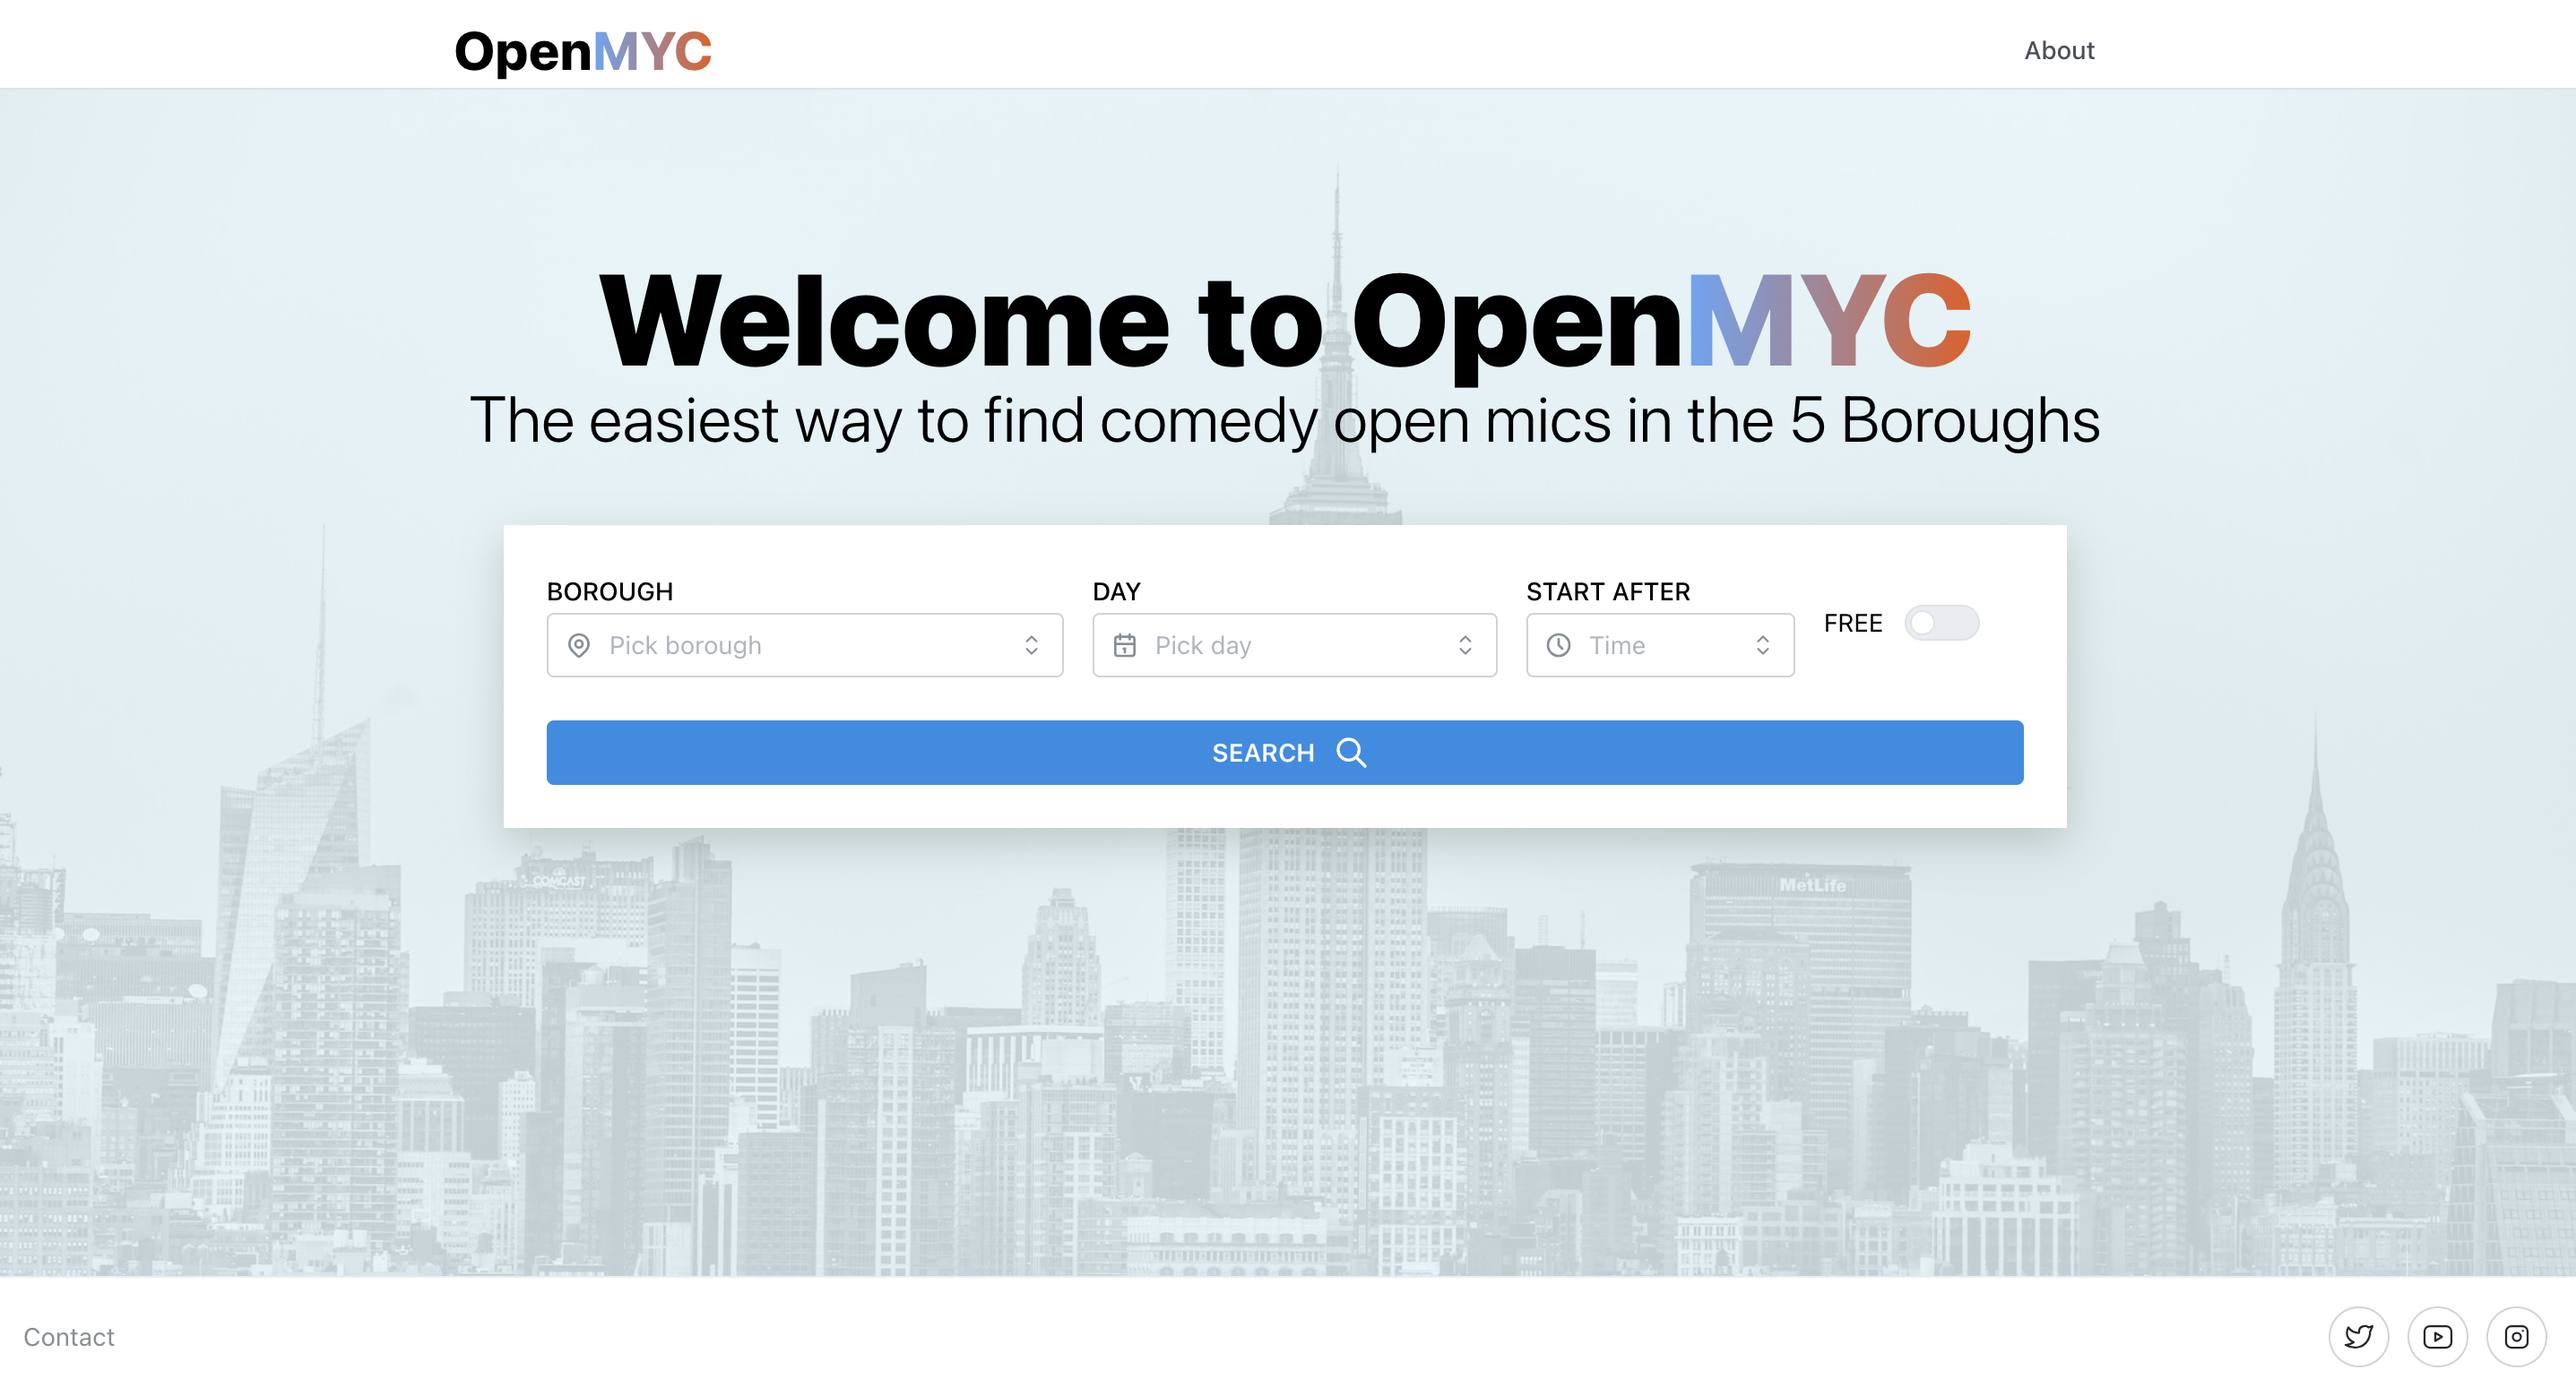
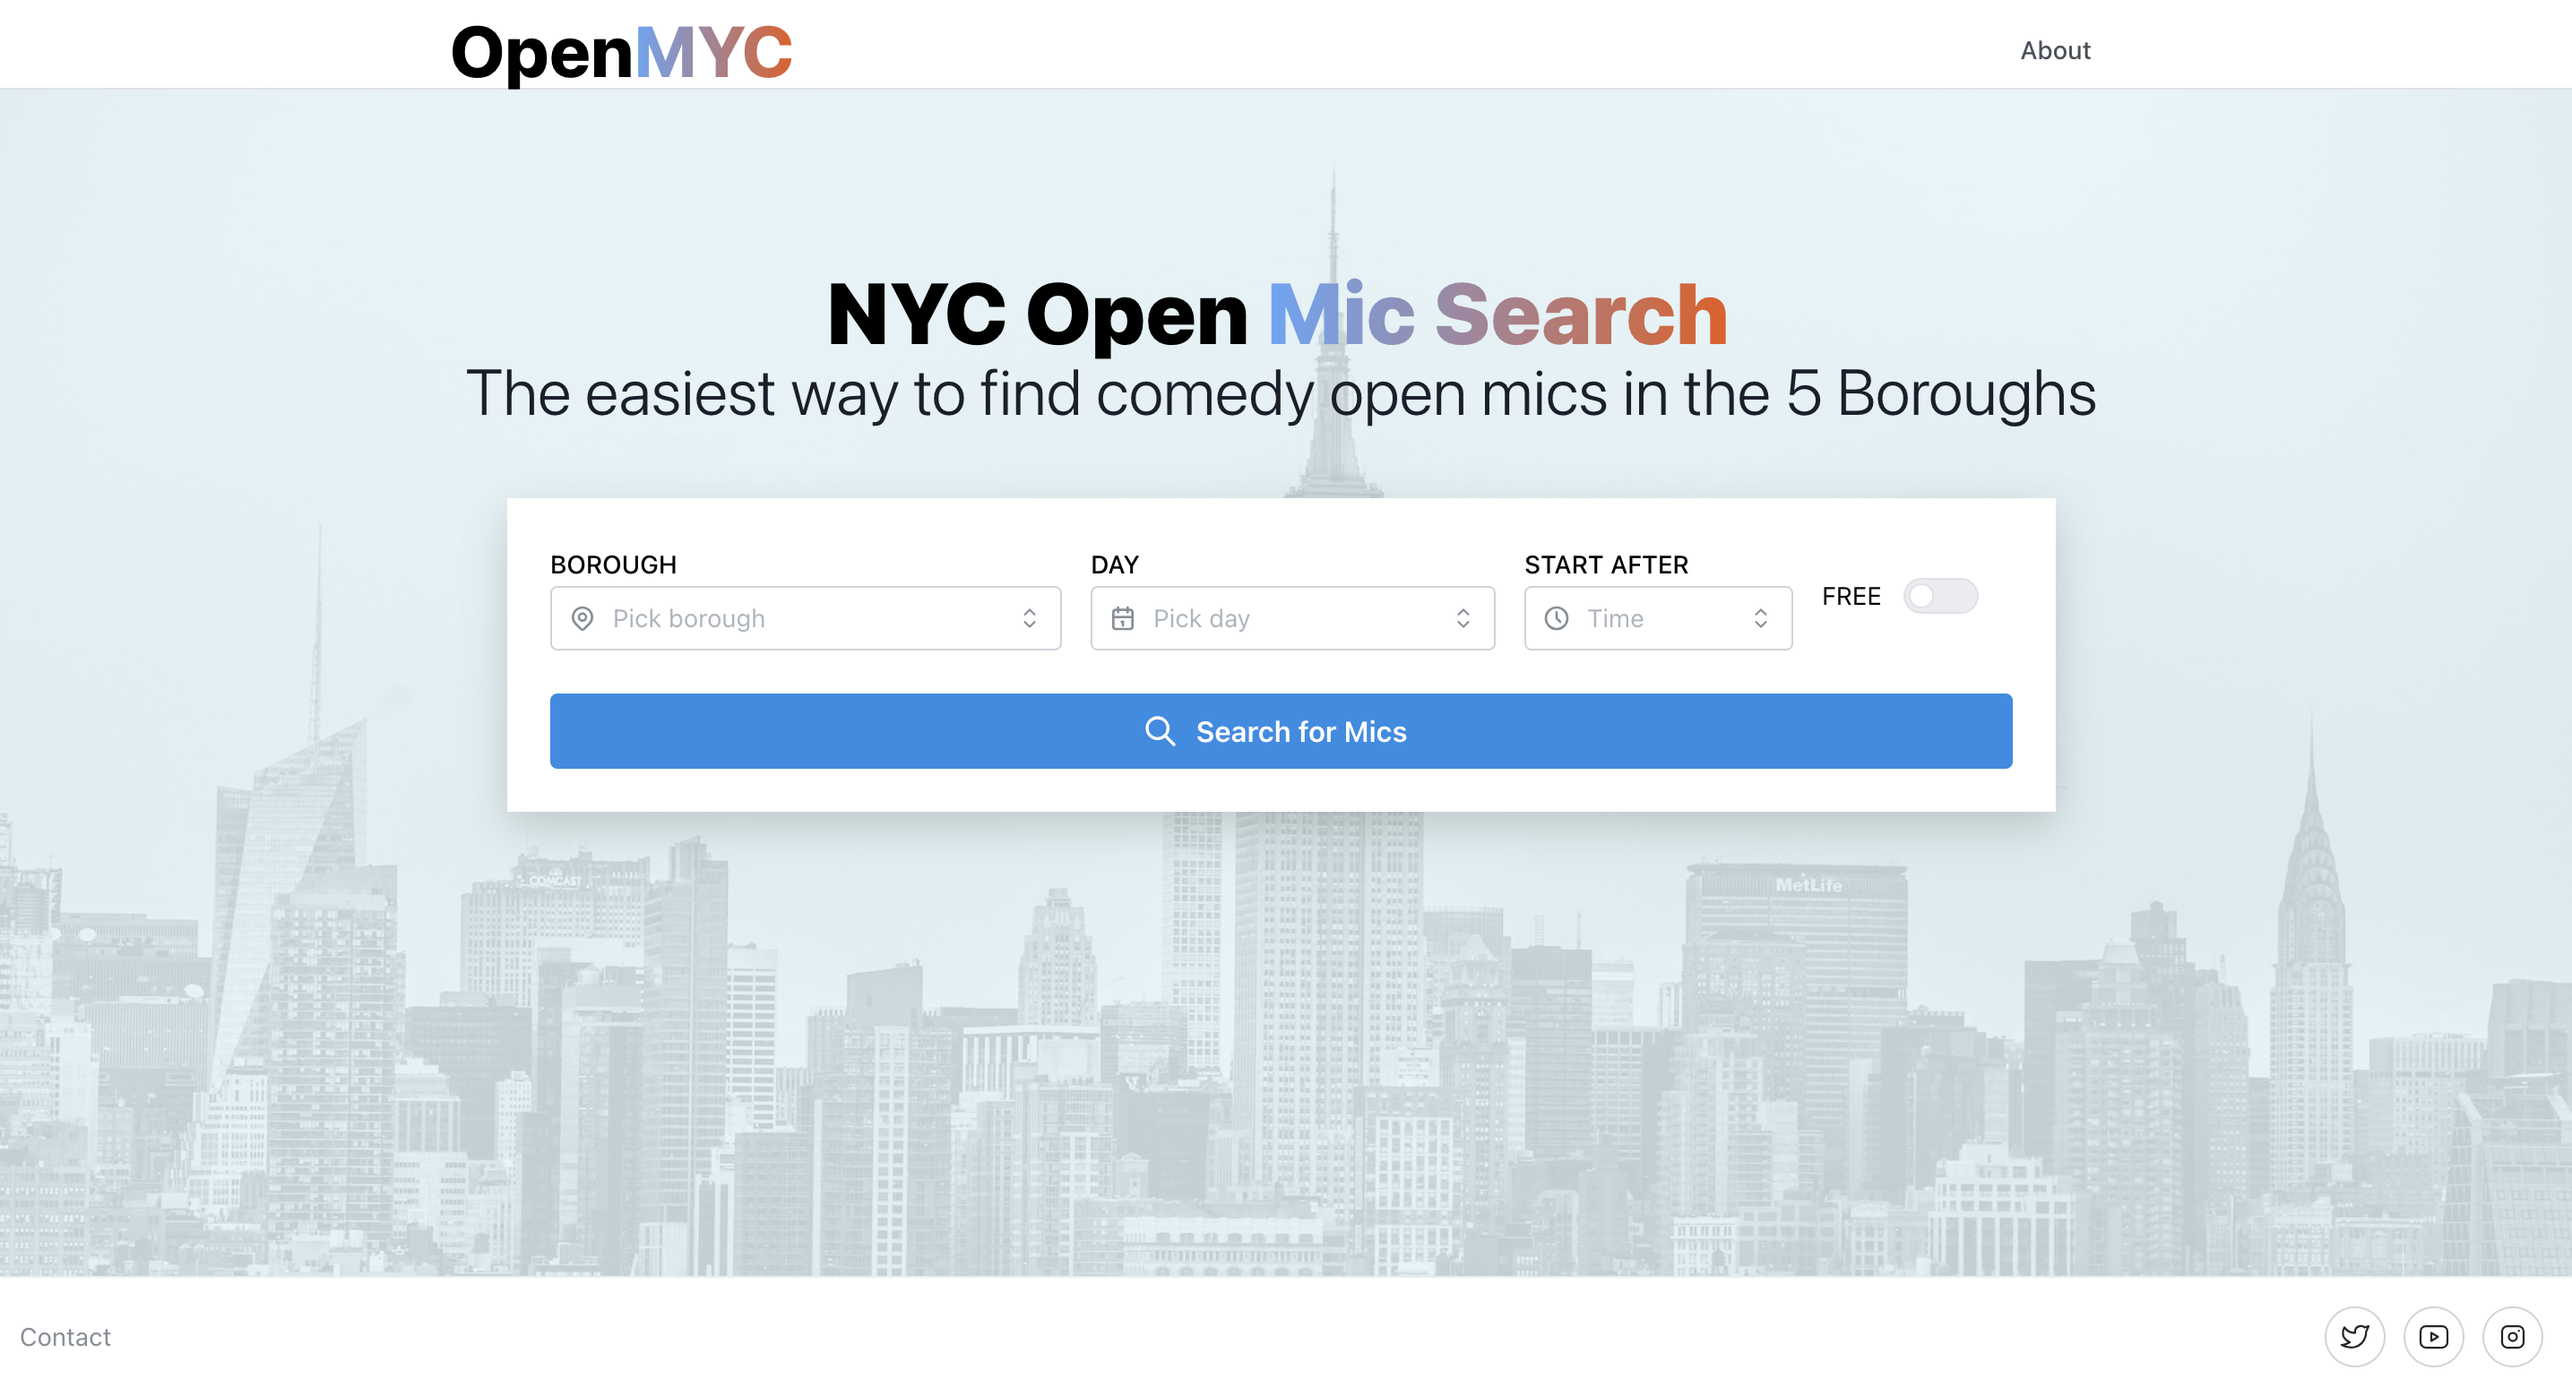
update with website

diff --git a/README.md b/README.md
@@ -52,8 +52,9 @@ image analysis using MatLab
 ## Projects
 
 ### OpenMYC
+**[findopenmyc.com](https://findopenmyc.com/)**
 
-![Open MYC](/assets/img/OpenMYC.png)
+![OpenMYC](/assets/img/myc.png)
 
 Application that locates comedy open mics in NYC deployed on [Digital Ocean.](https://jellyfish-app-7sddg.ondigitalocean.app/)
 
